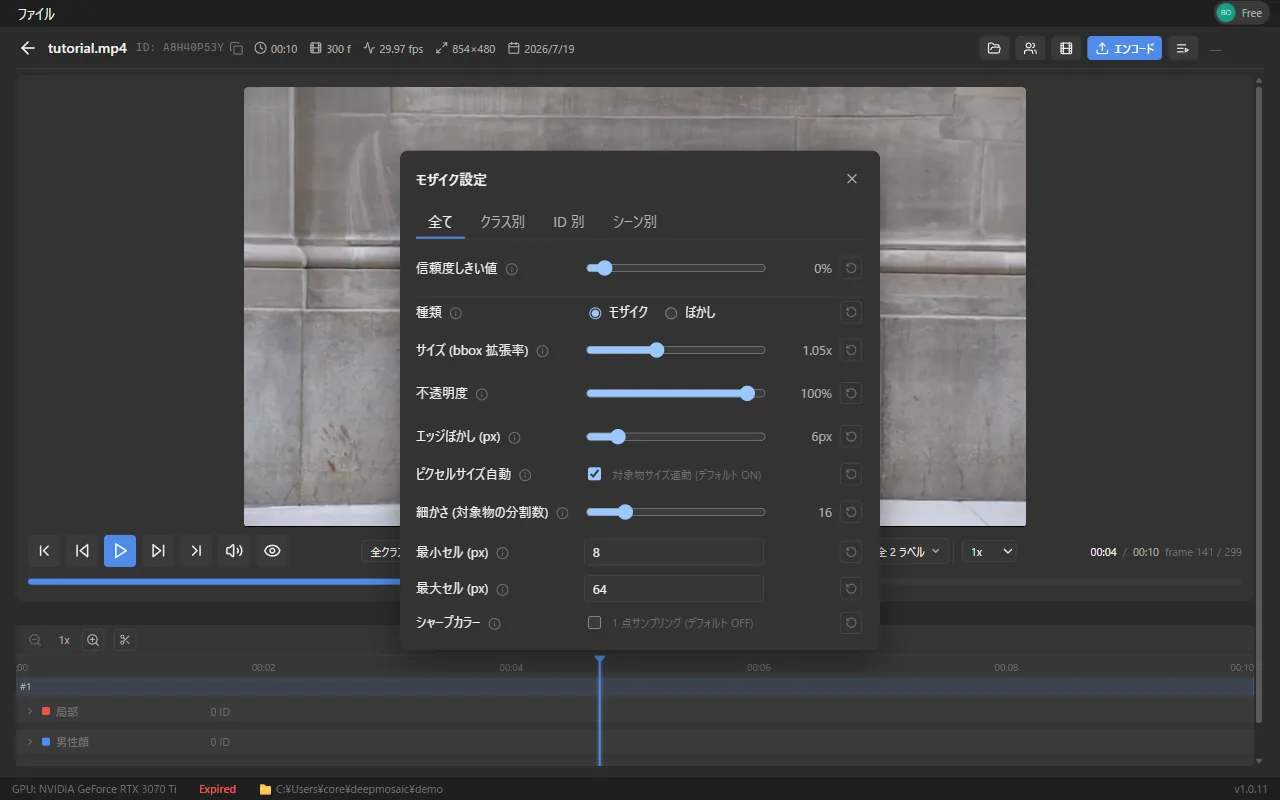
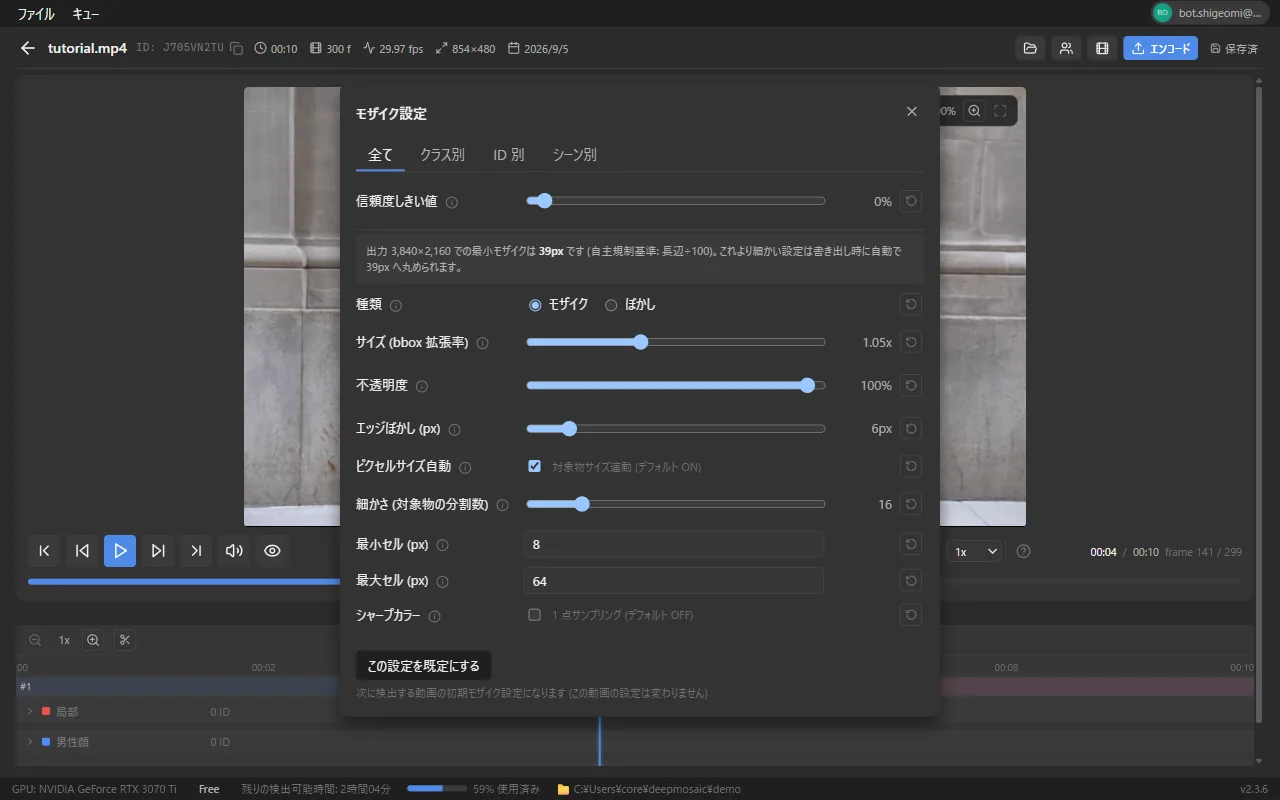
feat(docs): スクリーンショットを 4K サンプル素材で 36 枚に撮り直し (TICKET-SITE-43)
desktop scripts/e2e/screenshots.mjs (T-167) を実走し、旧 11 枚を差し替え + 25 枚を追加
(プロフィールメニュー / 問い合わせ / アカウント削除 / プラン選択 / 更新確認 / ライトモード /
一括実行 / キュー / カードメニュー / 選択モード / ショートカット凡例 / 右クリック / ズーム /
オーバーレイ非表示 / タイムライン / 人物ギャラリー / モザイク設定タブ / タイムコード /
Premiere セットアップ / エンコード進捗 など)。WebP (quality 82)。

Claude-Session: https://claude.ai/code/session_012sHucbJ5e3e4PrWzkhtg8k

diff --git a/CHANGELOG.md b/CHANGELOG.md
@@ -13,7 +13,7 @@
   `_data/docs_toc.yml` (単一情報源) + `_includes/docs-toc-list.html` に。章見出し付き・縦スクロール可の
   目次と、md 未満向けのモバイル目次 (`<details>`) を追加。Scrollspy 島は `.docs-toc` 内のリンクだけを
   現在位置の表示対象にし、sticky 目次内で現在の項目を自動追従。`<code>`/`<kbd>` の共通スタイル
-- [ ] TICKET-SITE-43: スクリーンショットの撮り直し・追加 — desktop `scripts/e2e/screenshots.mjs`
+- [x] TICKET-SITE-43: スクリーンショットの撮り直し・追加 — desktop `scripts/e2e/screenshots.mjs`
   (T-167) を 4K の非露骨サンプル素材で実走し 36 枚を WebP 化 (旧 11 枚を差し替え)
 - [ ] TICKET-SITE-44: 導入〜検出の執筆 — 画面の構成 (`#layout`) / テーマ (`#theme`) / ログイン手順・
   同時起動 1 台・オフライン時 / プランを選ぶと変更・解約の反映 / アカウントの削除 (`#account`) /
